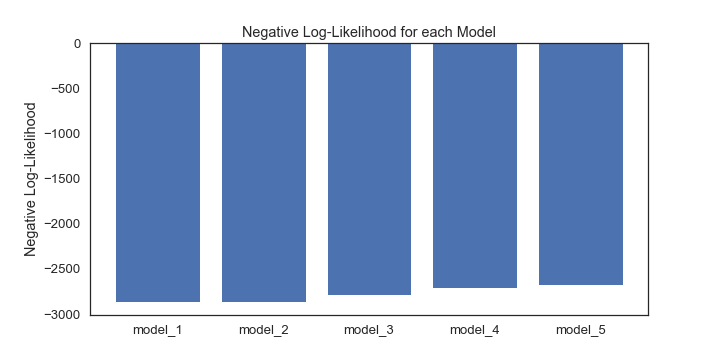
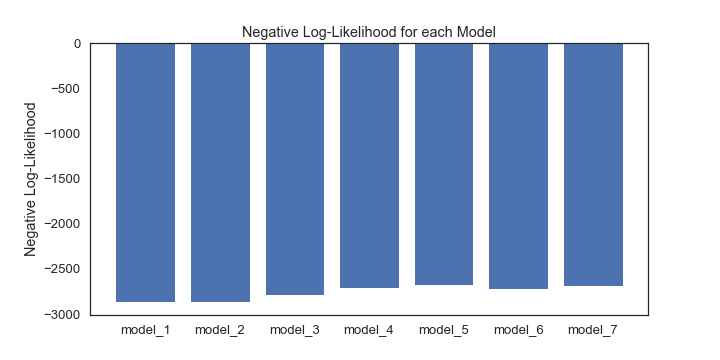
first pass model 6 and 7.

diff --git a/hw-4/instrumental-interactions/model_template.py b/hw-4/instrumental-interactions/model_template.py
@@ -426,6 +426,47 @@ Model-6: Assumes that:
     * \rho_rew^{app}, \rho_rew^{wth}, \rho_pun^{app}, \rho_pun^{wth} - feedback sensitivity
     * bias_{app}, bias_{wth} - biases:
 """
+def model_6(data, learning_rate, 
+                    rho_rew_app, rho_rew_wth, 
+                    rho_pun_app, rho_pun_wth, 
+                    bias_app, bias_wth):
+    """
+    """
+    def q_bias(q, state):   
+        bias_matrix = np.array([
+            [0.0, bias_app],  # Go+ (state 0): NoGo = 0, Go = bias_app
+            [0.0, bias_wth],  # Go- (state 1): NoGo = 0, Go = bias_wth
+            [0.0, 0.0],       # NoGo+ (state 2): No bias for either action
+            [0.0, 0.0]        # NoGo- (state 3): No bias for either action
+        ])
+        return q[state] + bias_matrix[state] 
+        
+    def update_rule(q, state, action, reward):
+        """
+        q: np.ndarray
+            The Q-values
+        state: int
+            The current state
+        action: int
+            The current action
+        reward: int
+            The reward
+        """
+        # Define state-dependent feedback sensitivities
+        rho = 1.0
+        if state == 0:  # Go+ (approach block)
+            rho = (reward == 1) * rho_rew_app + (reward == -1) * rho_pun_app
+        elif state == 1:  # Go- (withdrawal block)
+            rho = (reward == 1) * rho_rew_wth + (reward == -1) * rho_pun_wth
+        else:
+            # For NoGo+ (state 2) and NoGo- (state 3), no additional sensitivity
+            rho = 1.0  # Default scaling factor, if no explicit sensitivity is applied
+
+        # Compute prediction error
+        prediction_error = (rho * reward) - q[state, action]
+        return q[state, action] + (learning_rate * prediction_error)
+    
+    return model_negative_log_likelihood(data, update_rule, q_bias=q_bias)
 
 """
 Model-7: Assumes that:
@@ -433,6 +474,45 @@ Model-7: Assumes that:
     * \rho_rew, \rho_pun - feedback sensitivity
     * bias_{app}, bias_{wth} - biases:
 """
+def model_7(data, learning_rate_app, learning_rate_wth, rho_rew, rho_pun, bias_app, bias_wth):
+    """
+    """
+    def q_bias(q, state):   
+        bias_matrix = np.array([
+            [0.0, bias_app],  # Go+ (state 0): NoGo = 0, Go = bias_app
+            [0.0, bias_wth],  # Go- (state 1): NoGo = 0, Go = bias_wth
+            [0.0, 0.0],       # NoGo+ (state 2): No bias for either action
+            [0.0, 0.0]        # NoGo- (state 3): No bias for either action
+        ])
+        return q[state] + bias_matrix[state] 
+        
+    def update_rule(q, state, action, reward):
+        """
+        q: np.ndarray
+            The Q-values
+        state: int
+            The current state
+        action: int
+            The current action
+        reward: int
+            The reward
+        """
+        # Determine the appropriate learning rate based on state
+        if state in [0, 2]:  # Go+ or NoGo+ (approach conditions)
+            learning_rate = learning_rate_app
+        elif state in [1, 3]:  # Go- or NoGo- (withdrawal conditions)
+            learning_rate = learning_rate_wth
+        else:
+            raise ValueError(f"Unexpected state: {state}")
+
+        rho = (reward == 1) * rho_rew + (reward == -1) * rho_pun
+        # Compute prediction error
+        prediction_error = (rho * reward) - q[state, action]
+        return q[state, action] + (learning_rate * prediction_error)
+    
+    return model_negative_log_likelihood(data, update_rule, q_bias=q_bias)
+
+            
 
 #%%
 method = 'Nelder-Mead'  
@@ -461,7 +541,7 @@ PARAMS = {
     'model_4': ['learning_rate', 'beta', 'bias_app', 'bias_wth'],
     'model_5': ['learning_rate', 'rho_rew', 'rho_pun', 'bias_app', 'bias_wth'],
     'model_6': ['learning_rate', 'rho_rew_app', 'rho_rew_wth', 'rho_pun_app', 'rho_pun_wth', 'bias_app', 'bias_wth'],
-    'model_7': ['learning_rate_rew', 'learning_rate_pun', 'learning_rate_omit', 'rho_rew', 'rho_pun', 'bias_app', 'bias_wth']
+    'model_7': ['learning_rate_app', 'learning_rate_wth',  'rho_rew', 'rho_pun', 'bias_app', 'bias_wth']
 }
 
 BOUNDS = {
@@ -493,6 +573,23 @@ BOUNDS = {
         'bias_app': (-10, 10),
         'bias_wth': (-10, 10)
     },
+    'model_6': {
+        'learning_rate': (0, 1),
+        'rho_rew_app': (0, 100),
+        'rho_rew_wth': (0, 100),
+        'rho_pun_app': (0, 100),
+        'rho_pun_wth': (0, 100),
+        'bias_app': (-10, 10),
+        'bias_wth': (-10, 10)
+    },
+    'model_7': {
+        'learning_rate_app': (0, 1),
+        'learning_rate_wth': (0, 1),
+        'rho_rew': (0, 100),
+        'rho_pun': (0, 100),
+        'bias_app': (-10, 10),
+        'bias_wth': (-10, 10)
+    }
 }
 
 INITIAL_PARAMS = {
@@ -524,6 +621,23 @@ INITIAL_PARAMS = {
         'bias_app': 0.5,
         'bias_wth': 0.5
     },
+    'model_6': {
+        'learning_rate': 0.1,
+        'rho_rew_app': 0.5,
+        'rho_rew_wth': 0.5,
+        'rho_pun_app': 0.5,
+        'rho_pun_wth': 0.5,
+        'bias_app': 0.5,
+        'bias_wth': 0.5
+    },
+    'model_7': {
+        'learning_rate_app': 0.1,
+        'learning_rate_wth': 0.1,
+        'rho_rew': 0.5,
+        'rho_pun': 0.5,
+        'bias_app': 0.5,
+        'bias_wth': 0.5
+    }
 }
 
 MODELS = {
@@ -532,8 +646,8 @@ MODELS = {
     'model_3': model_3,
     'model_4': model_4,
     'model_5': model_5,
-    #'model_6': model_6,
-    #'model_7': model_7
+    'model_6': model_6,
+    'model_7': model_7
 }
 
 #%%
